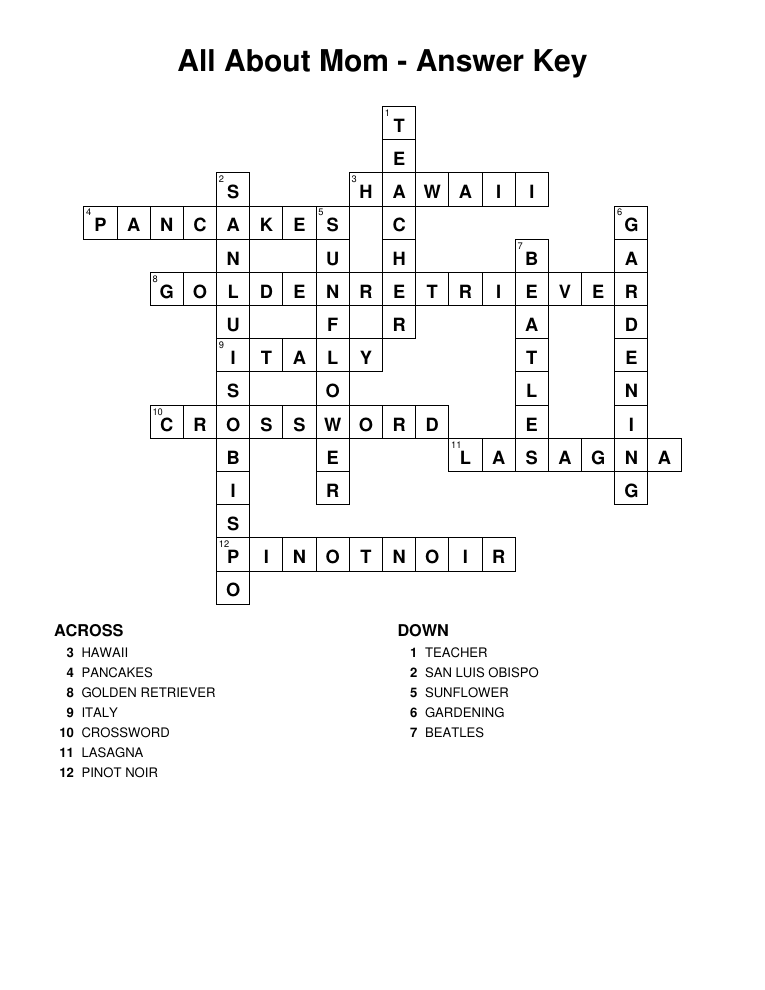
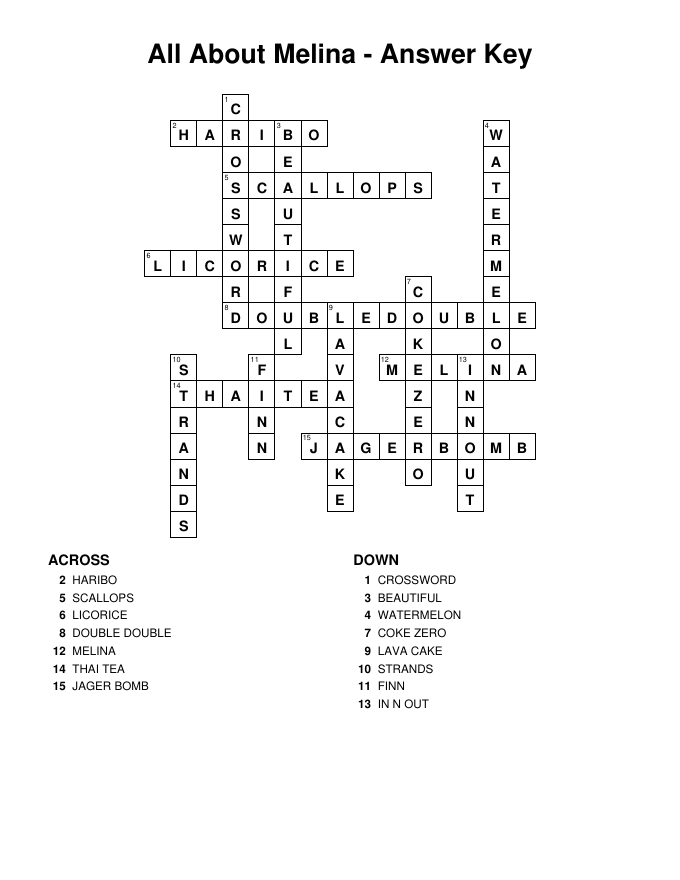
Use Melina Strands words
Swap the sample puzzle for one about Melina, using theme words and clues from the Melina Strands project.

Changed region(s): [[0.0926, 0.0307, 0.8956, 0.6136], [0.0618, 0.6136, 0.2779, 0.7977], [0.525, 0.6136, 0.7103, 0.8284]]

diff --git a/crossword_maker.py b/crossword_maker.py
@@ -19,25 +19,29 @@ Tip: if you don't like the layout, just run again (or try a different --seed).
 # ============================  CONFIG - EDIT ME  =============================
 # =============================================================================
 
-TITLE = "All About Mom"
-SUBTITLE = "Merry Christmas, Mom! Love, Finn"      # dedication line (or "")
+TITLE = "All About Melina"
+SUBTITLE = "Love, Finn"      # dedication line (or "")
 
 # (ANSWER, CLUE) pairs. Answers can include spaces / punctuation; they're
 # stripped for the grid ("SAN LUIS OBISPO" -> SANLUISOBISPO).
 # Aim for 10-25 words. Longer lists with shared letters interlock best.
+# Many of these come from the Melina Strands puzzles; a few are general.
 WORDS = [
-    ("SAN LUIS OBISPO", "City where Mom went to college"),
-    ("LASAGNA",         "Her famous Sunday dinner"),
-    ("GOLDEN RETRIEVER","Breed of our first family dog"),
-    ("HAWAII",          "Where she and Dad honeymooned"),
-    ("GARDENING",       "Her favorite way to spend a Saturday morning"),
-    ("PINOT NOIR",      "Her go-to glass of wine"),
-    ("TEACHER",         "Her job for over twenty years"),
-    ("BEATLES",         "Band she always plays in the car"),
-    ("SUNFLOWER",       "Her favorite flower"),
-    ("CROSSWORD",       "What she does every morning with coffee (like this one!)"),
-    ("PANCAKES",        "Birthday breakfast tradition"),
-    ("ITALY",           "Dream trip on her bucket list"),
+    ("MELINA",         "The 'I love _____' at the heart of the first Strands puzzle"),
+    ("BEAUTIFUL",      "One of the things I love about you"),
+    ("LAVA CAKE",      "Sweet-tooth dessert, promised with vanilla ice cream"),
+    ("HARIBO",         "Gummy brand in Melina's sweet tooth puzzle"),
+    ("LICORICE",       "Chewy candy from Melina's sweet tooth"),
+    ("THAI TEA",       "Iced drink on the 'Sip sip hooray!' list"),
+    ("JAGER BOMB",     "Shot from 'Sip sip hooray!,' promised with lavender vanilla lattes"),
+    ("DOUBLE DOUBLE",  "In-N-Out order that's the spangram of 'Order like Melina'"),
+    ("IN N OUT",       "Burger chain in 'Order like Melina'"),
+    ("COKE ZERO",      "Her drink that's '2/3 Diet Coke, 1/3 Coke,' but actually this"),
+    ("WATERMELON",     "Fruit that's 'on top' in the juicy Strands puzzle"),
+    ("SCALLOPS",       "Seafood from the dinner date puzzle"),
+    ("CROSSWORD",      "Printable puzzle like this one"),
+    ("STRANDS",        "Word game this puzzle borrows its theme words from"),
+    ("FINN",           "Name signed on every Strands win screen"),
 ]
 
 SHOW_WORD_LENGTHS = True    # adds "(3,4,6)" after multi-word clues, "(7)" otherwise
